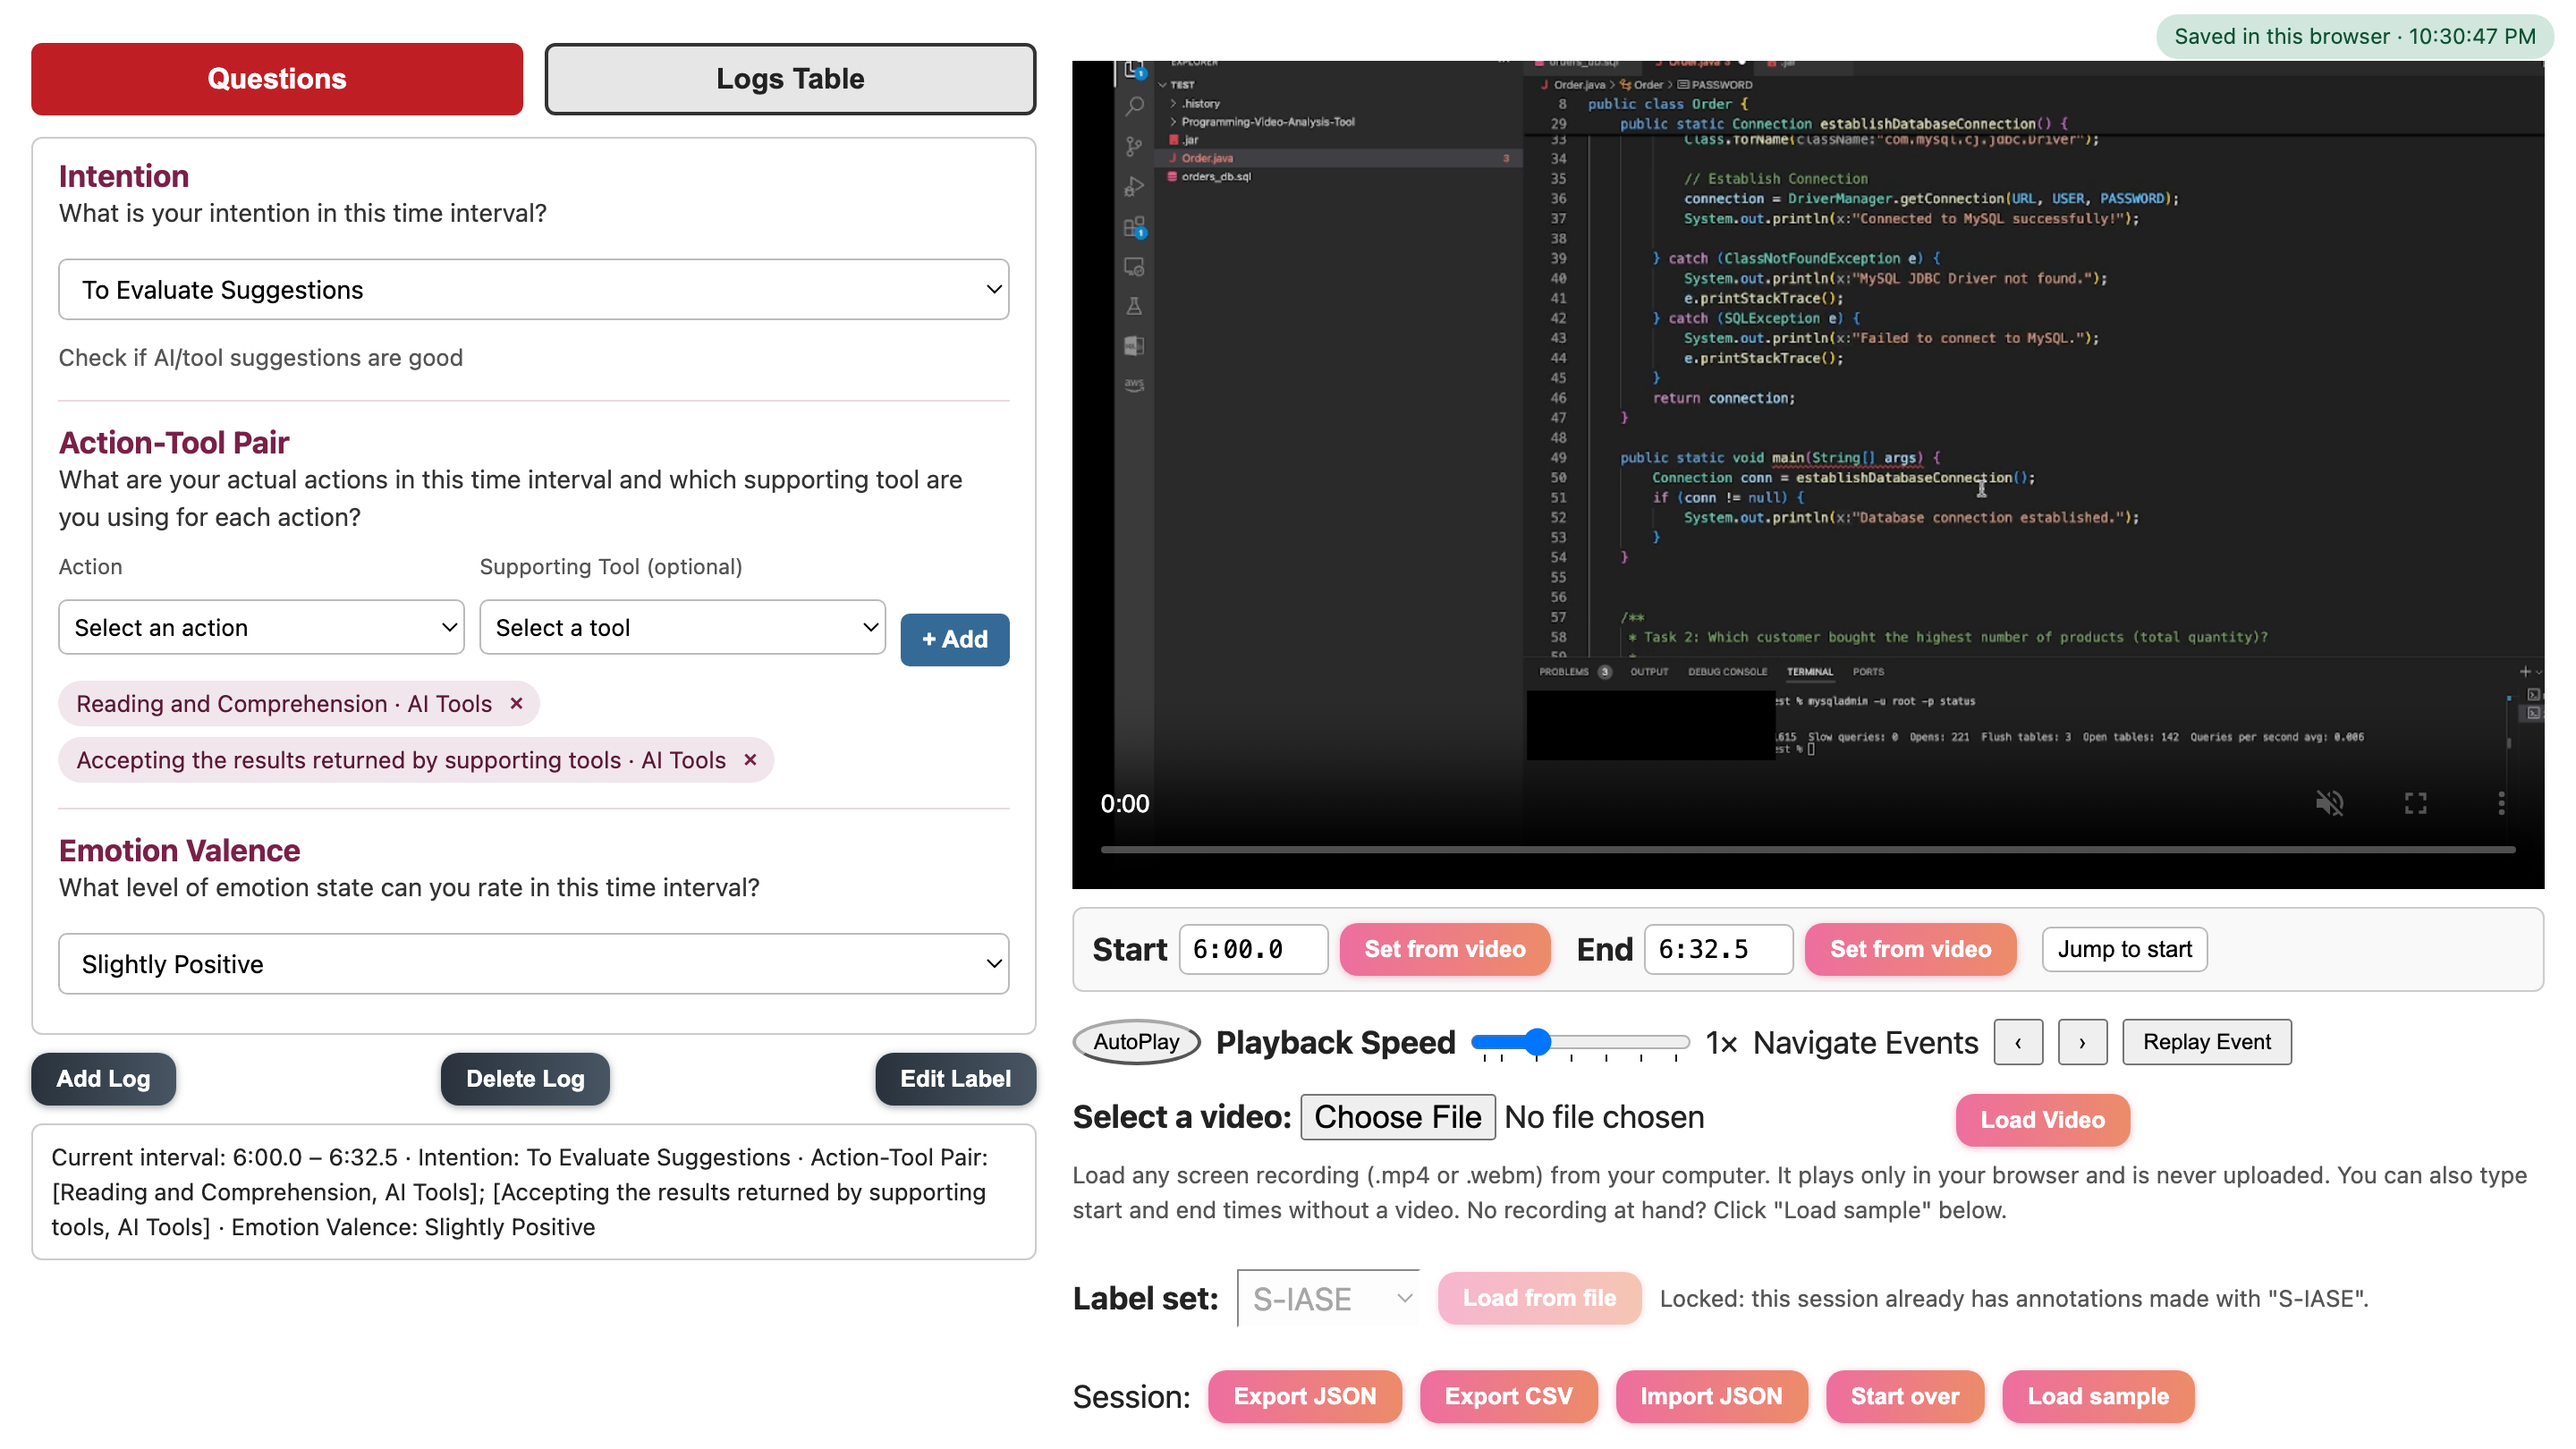
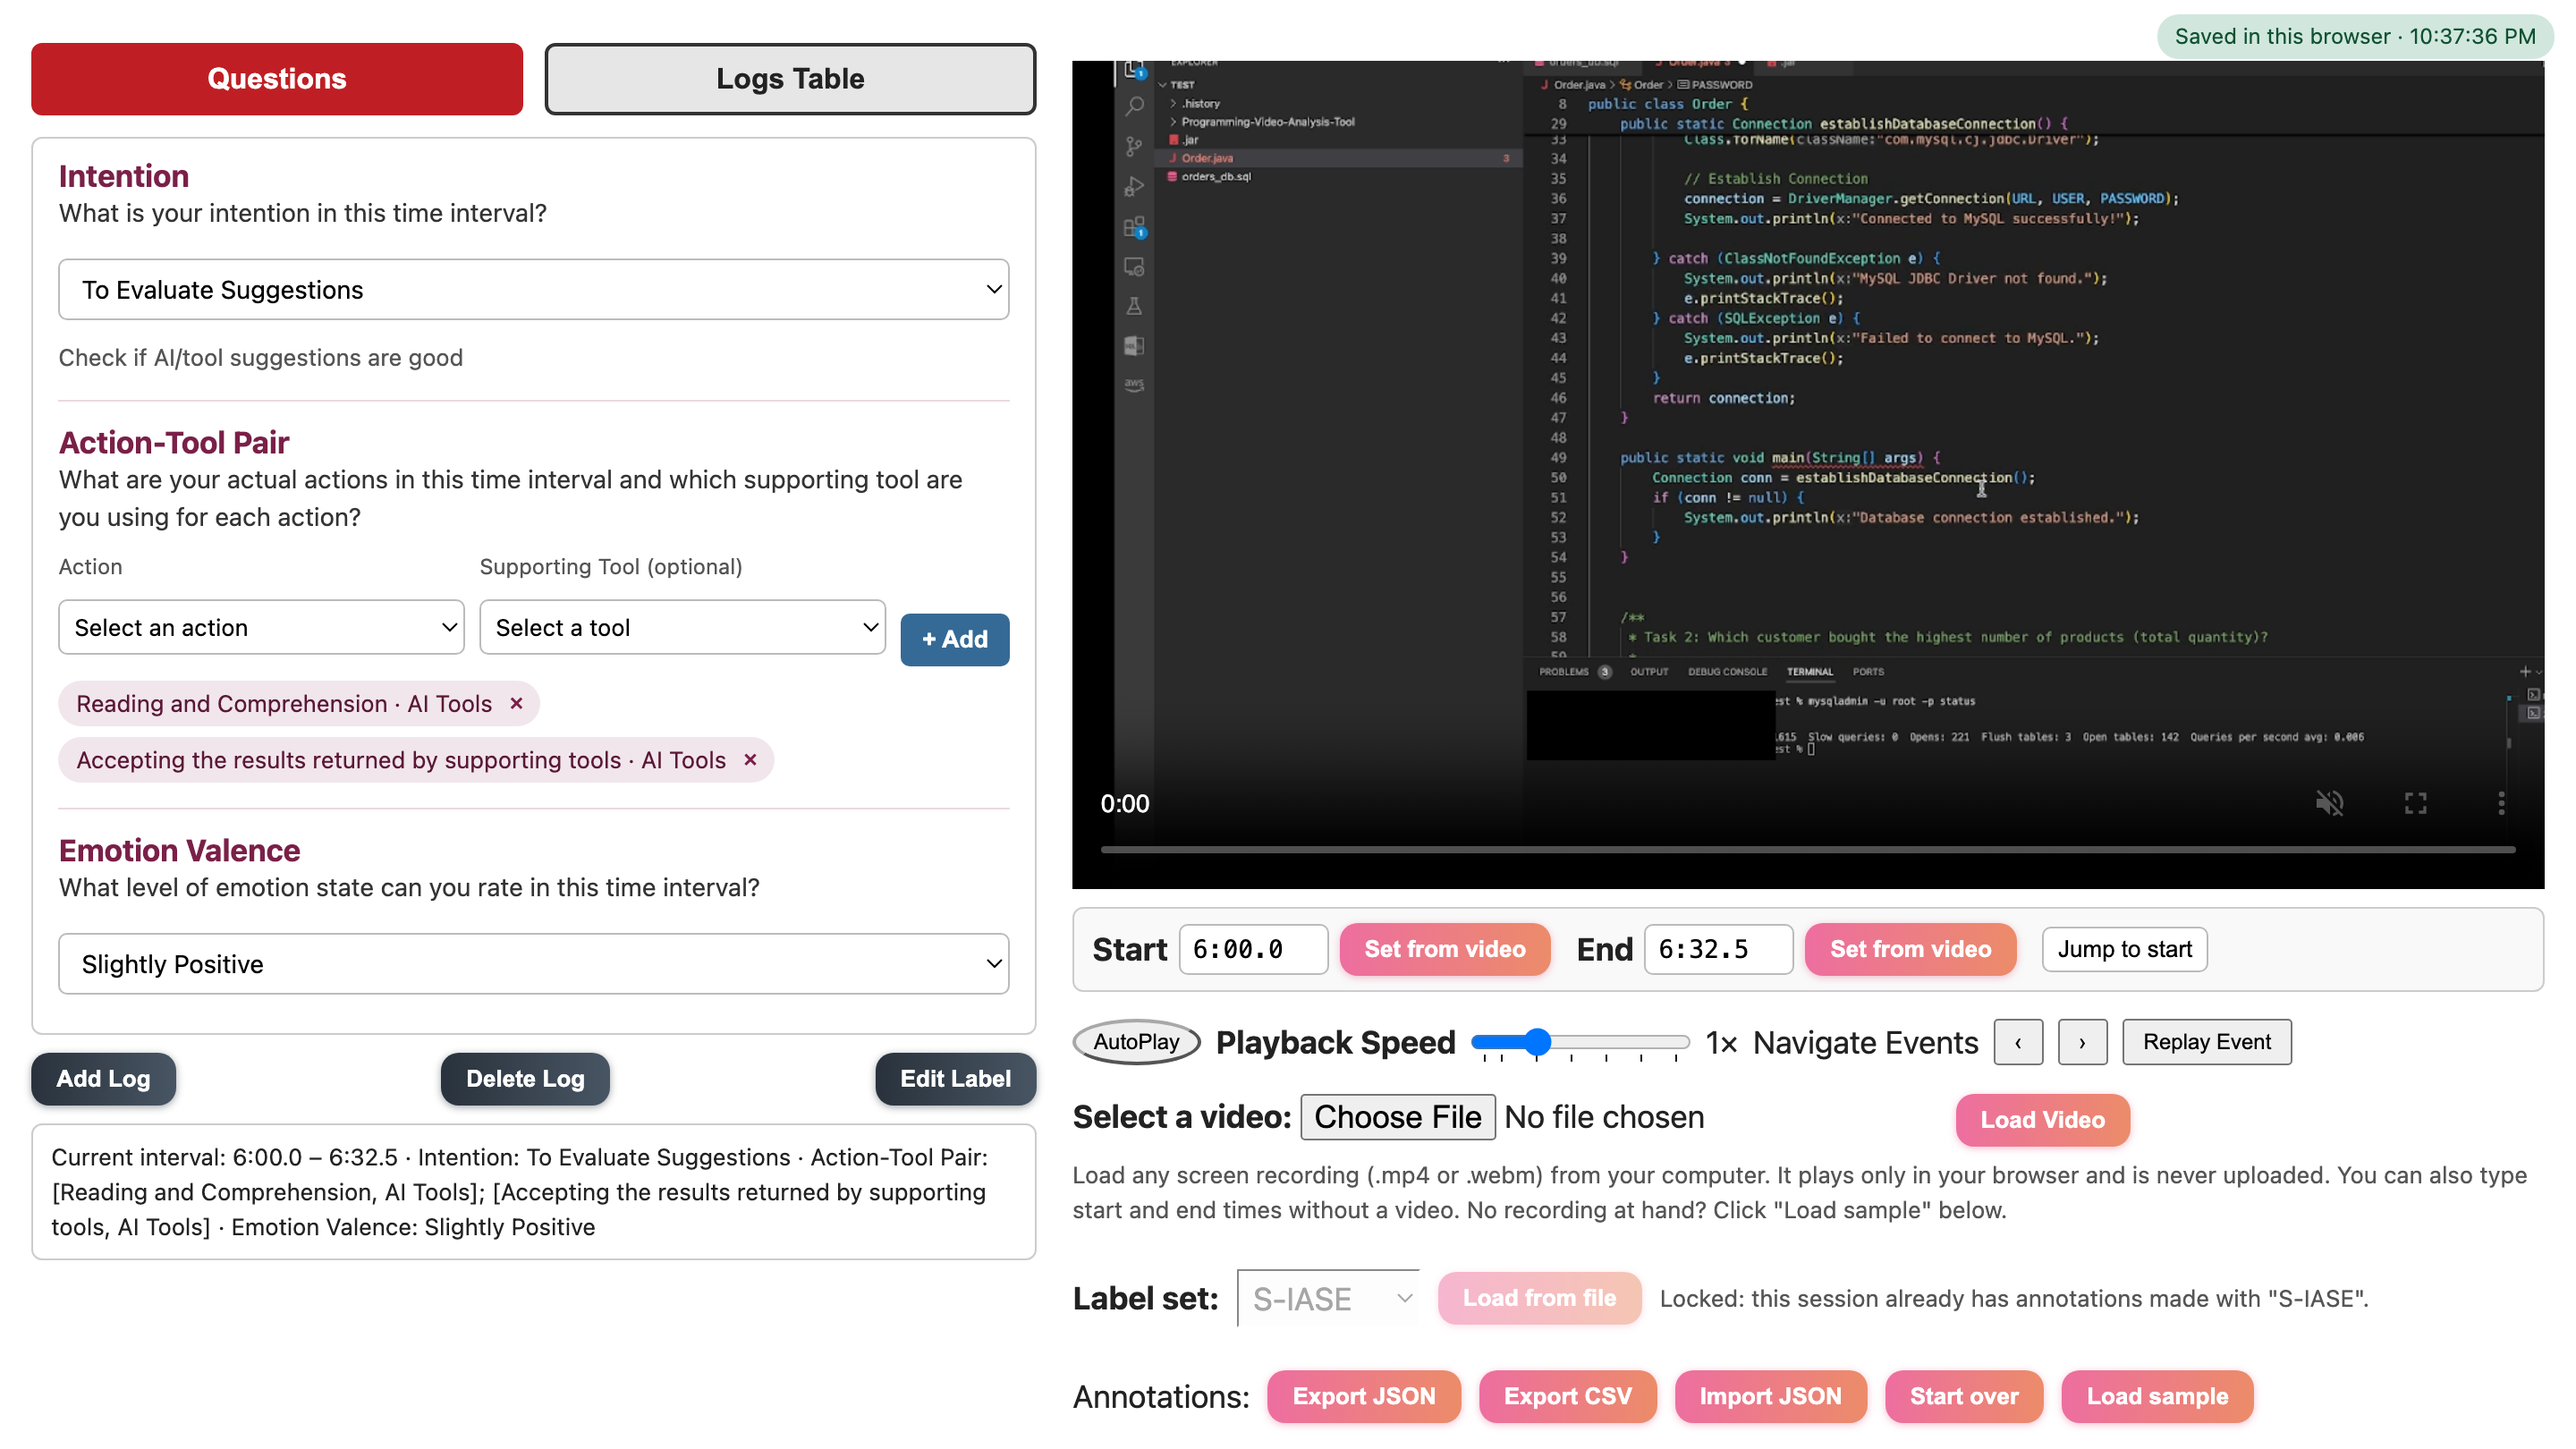
Rename the Session label to Annotations; retake screenshots

Changed region(s): [[0.4062, 0.9259, 0.875, 0.9877], [0.9375, 0.0, 0.9688, 0.0309]]

diff --git a/app_study/index.html b/app_study/index.html
@@ -206,9 +206,9 @@
                 <span id="labelset-lock" class="labelset-lock hidden"></span>
               </div>
 
-              <!-- Session: take the annotations out, bring them back, or start over -->
+              <!-- Annotations: take them out, bring them back, start over, or load the sample -->
               <div class="session-bar">
-                <span>Session:</span>
+                <span>Annotations:</span>
                 <button id="export-json" class="btn-hover color-10" title="Download the annotations as JSON (can be imported again)">Export JSON</button>
                 <button id="export-csv" class="btn-hover color-10" title="Download the annotations as a CSV table (one row per interval)">Export CSV</button>
                 <button id="import-json" class="btn-hover color-10" title="Continue from an exported or older DevSelfTrace JSON file">Import JSON</button>

diff --git a/docs/app/index.html b/docs/app/index.html
@@ -206,9 +206,9 @@
                 <span id="labelset-lock" class="labelset-lock hidden"></span>
               </div>
 
-              <!-- Session: take the annotations out, bring them back, or start over -->
+              <!-- Annotations: take them out, bring them back, start over, or load the sample -->
               <div class="session-bar">
-                <span>Session:</span>
+                <span>Annotations:</span>
                 <button id="export-json" class="btn-hover color-10" title="Download the annotations as JSON (can be imported again)">Export JSON</button>
                 <button id="export-csv" class="btn-hover color-10" title="Download the annotations as a CSV table (one row per interval)">Export CSV</button>
                 <button id="import-json" class="btn-hover color-10" title="Continue from an exported or older DevSelfTrace JSON file">Import JSON</button>

diff --git a/README.md b/README.md
@@ -83,7 +83,7 @@ Then open <http://localhost:8080/>; annotations are saved to `./data/session.jso
 - On the server, files are replaced in one step (never half-written), and the five previous versions are kept as `FILE.bak1` … `FILE.bak5`.
 - If a save fails (server stopped, browser storage full), it is retried and you can export a copy right away.
 
-**Session** buttons: *Export JSON* (can be imported again), *Export CSV* (one row per interval), *Import JSON* (continue from an exported file or an older DevSelfTrace file), *Start over* (clears the annotations, offering an export first), *Load sample*.
+**Annotations** buttons: *Export JSON* (can be imported again), *Export CSV* (one row per interval), *Import JSON* (continue from an exported file or an older DevSelfTrace file), *Start over* (clears the annotations, offering an export first), *Load sample*.
 
 ## Label sets
 
